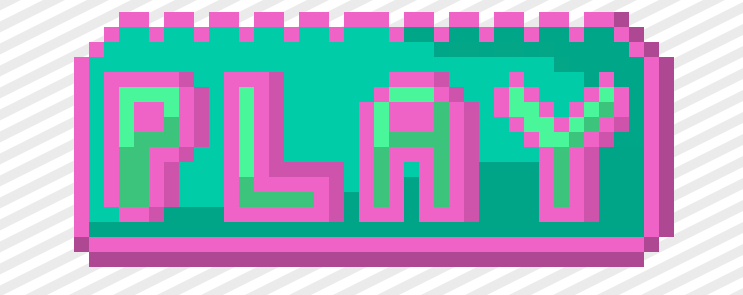
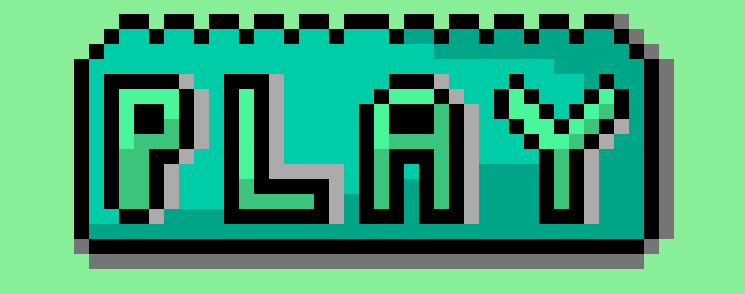
Added Image to Buttons

diff --git a/ChangeNameLaterTheGame.html b/ChangeNameLaterTheGame.html
@@ -70,7 +70,10 @@
       border-color: darkgrey;
       border-style: solid;
       border-width: 5px;
+      border-radius: 25%;
       color: black;
+      cursor: pointer;
+
     }
 
     .prog {
@@ -89,7 +92,7 @@
 </head>
 <body>
 
-  <div class="tcontainer col-sm-12 disable-select">
+  <div class="tcontainer col-sm-12">
     <div class="ticker-wrap">
       <div class="ticker-move" id="inbetween">
 
@@ -172,7 +175,7 @@
 
         <div id="gameBar" class="col-sm-12 text-center">
           <p id="proposal" style="text-align: center;">[Proposal]</p><br>
-          <button id="visButton" class="btn borderlol" style="width: 150px; background-color: lightgreen;">Start the Game!</button>
+          <img id="visButton" src="Images/play_clicked.png" class="borderlol" style="width: 150px; background-color: lightgreen;" onmouseover="hover(this);" onmouseout="unhover(this);"></img>
           <div id="buttonDiv" style="visibility: hidden;">
             <button id="opt1" class="btn borderlol" style="width: 400px; background-color: lightblue;">Do it!</button> <br><br>
             <button id="opt2" class="btn borderlol" style="width: 400px; background-color: lightblue;">Semi-fund it</button> <br><br>
@@ -185,7 +188,7 @@
 
         <div class="text-center col-sm-12">
           <h3>Current State:</h3>
-          <img id="randomImg" style="width: 20%; height: 20%" src="Images/BackgroundImage-75%.png"></img>
+          <img id="randomImg" style="width: 20%; height: 20%" src="Images/BackgroundImage-normal.png"></img>
         </div>
       </div>
     </div>

diff --git a/JSSheets/RandomTicker.js b/JSSheets/RandomTicker.js
@@ -27,6 +27,7 @@ function randomizeTicker() {
   for (var i = 0; i < tickerQuestions.length; i++) {
     var elm = document.createElement("div");
     elm.classList.add("ticker-item");
+    elm.classList.add("disable-select");
     spaceBars = spaceBar.repeat((width/4)*(3/4));
     elm.innerHTML = tickerQuestions[i] + spaceBars;
     document.getElementById("inbetween").appendChild(elm);
@@ -34,4 +35,12 @@ function randomizeTicker() {
 
   var cls = document.getElementsByClassName("ticker-move");
   cls.inbetween.style.animationDuration = animationDurationTime + "s";
+}
+
+function hover(element) {
+  element.setAttribute('src', 'Images/play_onclicked.png');
+}
+
+function unhover(element) {
+  element.setAttribute('src', 'Images/play_clicked.png');
 }
